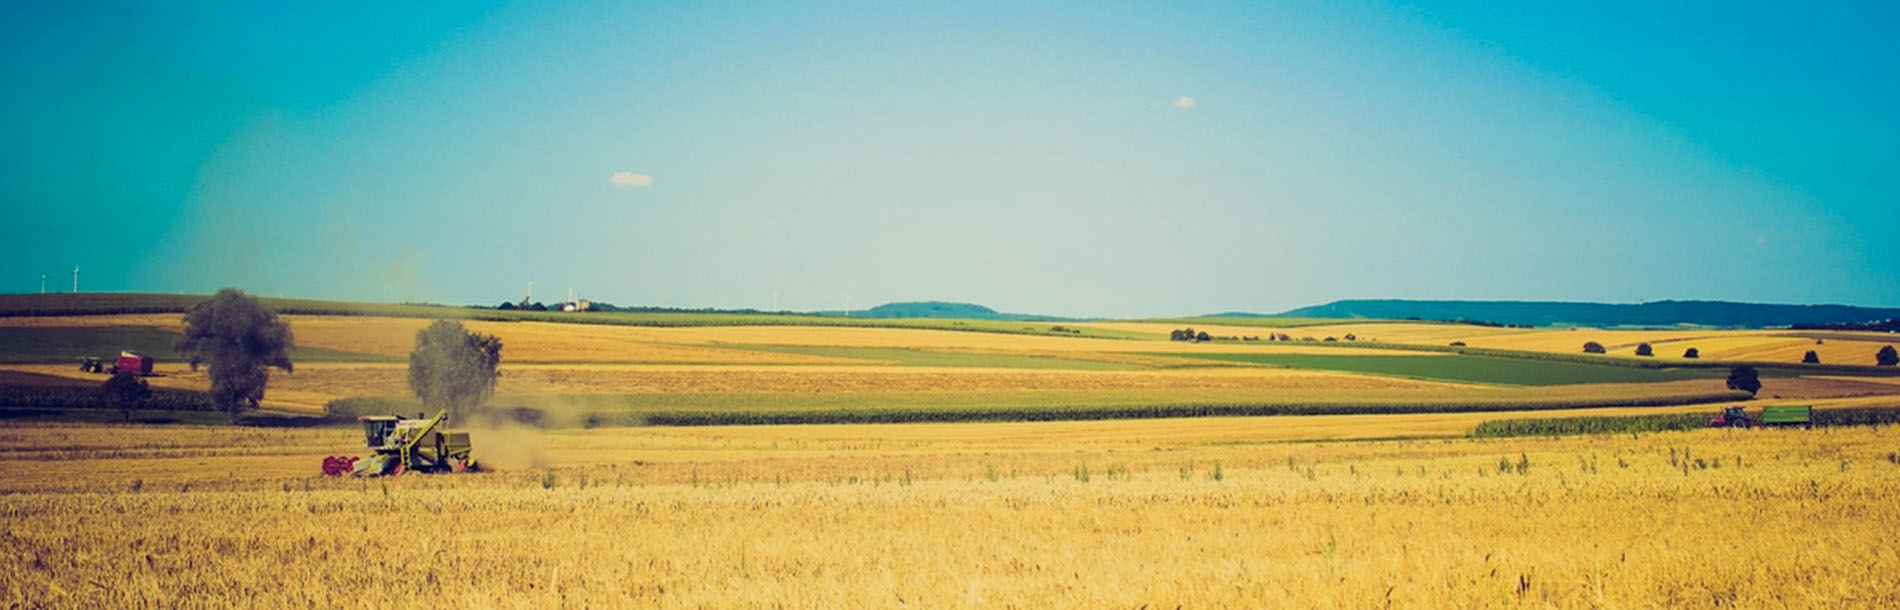
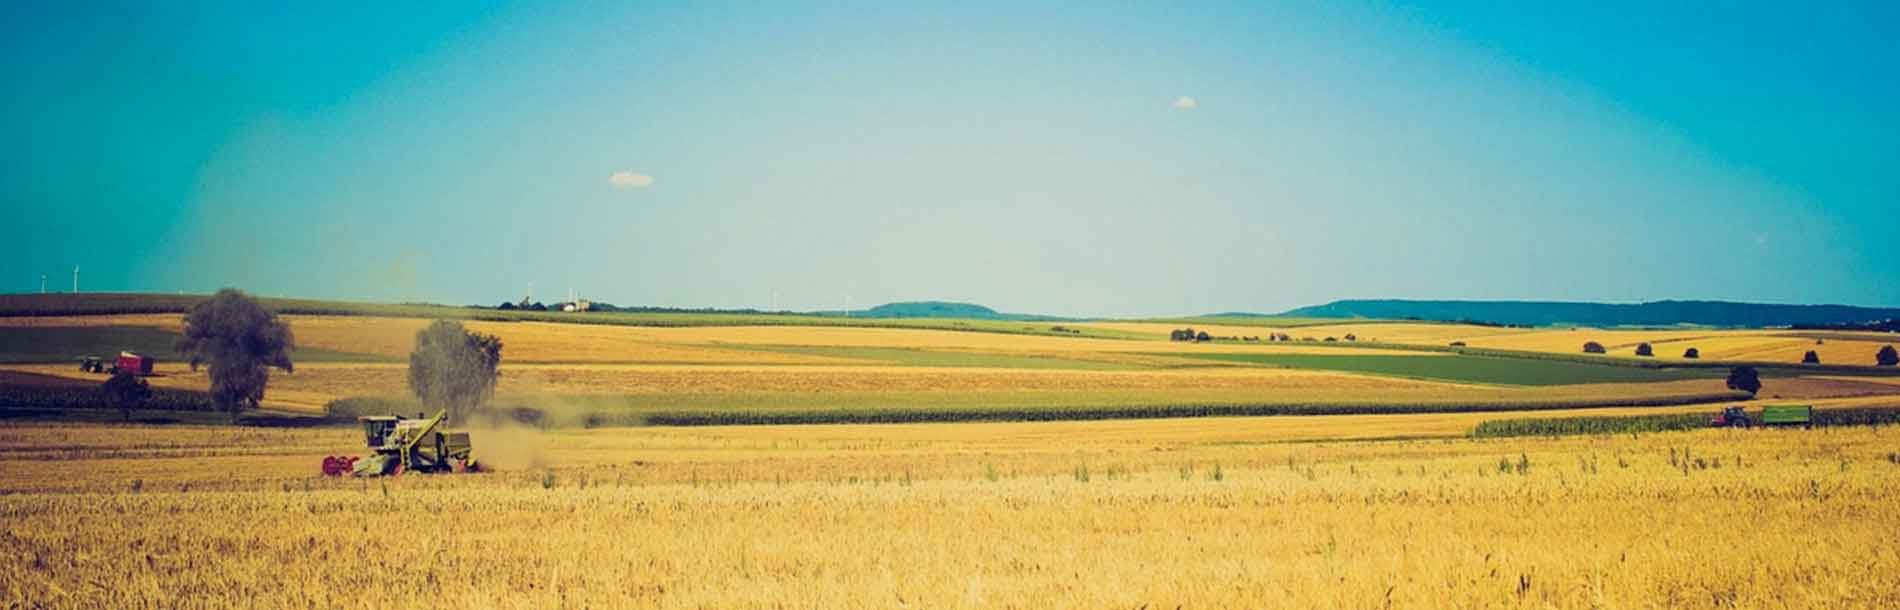
make image smaller

Changed region(s): [[0.9937, 0.5295, 1.0, 0.5918]]

diff --git a/index.html b/index.html
@@ -97,7 +97,7 @@
         <div class="clearfix"></div>
         <div class="col-sm-6 col-md-3">
           <div class="event_box ">
-            <img src="images/product/01-水稻苗前封闭-封草先锋.png" alt="封草先锋" class="img-responsive" />
+            <img src="images/product/01-水稻苗前封闭-封草先锋.jpg" alt="封草先锋" class="img-responsive" />
             <h2 style="text-align:center;font: 10px">封草先锋</h2>
             <ul>
               <li>适用范围: 水稻苗前封闭</li>
@@ -107,7 +107,7 @@
         </div>
         <div class="col-sm-6 col-md-3">
           <div class="event_box ">
-            <img src="images/product/02-水稻苗前封闭-封天下.png" alt="封天下" class="img-responsive" />
+            <img src="images/product/02-水稻苗前封闭-封天下.jpg" alt="封天下" class="img-responsive" />
             <h2 style="text-align:center;font: 10px">封天下</h2>
             <ul>
               <li>适用范围: 水稻苗前封闭</li>
@@ -117,7 +117,7 @@
         </div>
         <div class="col-sm-6 col-md-3">
           <div class="event_box ">
-            <img src="images/product/03-水稻苗后封闭-封除.png" alt="封除" class="img-responsive" />
+            <img src="images/product/03-水稻苗后封闭-封除.jpg" alt="封除" class="img-responsive" />
             <h2 style="text-align:center;font: 10px">封除</h2>
             <ul>
               <li>适用范围: 水稻苗后封闭</li>
@@ -127,7 +127,7 @@
         </div>
         <div class="col-sm-6 col-md-3">
           <div class="event_box ">
-            <img src="images/product/04-返青肥-科田稻.png" alt="科田稻" class="img-responsive" />
+            <img src="images/product/04-返青肥-科田稻.jpg" alt="科田稻" class="img-responsive" />
             <h2 style="text-align:center;font: 10px">科田稻</h2>
             <ul>
               <li>适用范围: 返青肥</li>
@@ -137,7 +137,7 @@
         </div>
         <div class="col-sm-6 col-md-3">
           <div class="event_box ">
-            <img src="images/product/05-苗床-苗速康.png" alt="苗速康" class="img-responsive" />
+            <img src="images/product/05-苗床-苗速康.jpg" alt="苗速康" class="img-responsive" />
             <h2 style="text-align:center;font: 10px">苗速康</h2>
             <ul>
               <li>适用范围: 苗床</li>
@@ -147,7 +147,7 @@
         </div>
         <div class="col-sm-6 col-md-3">
           <div class="event_box ">
-            <img src="images/product/06-杀虫剂-百虫绝杀.png" alt="百虫绝杀" class="img-responsive" />
+            <img src="images/product/06-杀虫剂-百虫绝杀.jpg" alt="百虫绝杀" class="img-responsive" />
             <h2 style="text-align:center;font: 10px">百虫绝杀</h2>
             <ul>
               <li>适用范围: 杀虫剂</li>
@@ -157,7 +157,7 @@
         </div>
         <div class="col-sm-6 col-md-3">
           <div class="event_box ">
-            <img src="images/product/07-杀虫剂-大拇指.png" alt="大拇指" class="img-responsive" />
+            <img src="images/product/07-杀虫剂-大拇指.jpg" alt="大拇指" class="img-responsive" />
             <h2 style="text-align:center;font: 10px">大拇指</h2>
             <ul>
               <li>适用范围: 杀虫剂</li>
@@ -167,7 +167,7 @@
         </div>
         <div class="col-sm-6 col-md-3">
           <div class="event_box ">
-            <img src="images/product/08-杀虫剂-毒霸.png" alt="毒霸" class="img-responsive" />
+            <img src="images/product/08-杀虫剂-毒霸.jpg" alt="毒霸" class="img-responsive" />
             <h2 style="text-align:center;font: 10px">毒霸</h2>
             <ul>
               <li>适用范围: 杀虫剂</li>
@@ -177,7 +177,7 @@
         </div>
         <div class="col-sm-6 col-md-3">
           <div class="event_box ">
-            <img src="images/product/09-杀虫剂-一甩光.png" alt="一甩光" class="img-responsive" />
+            <img src="images/product/09-杀虫剂-一甩光.jpg" alt="一甩光" class="img-responsive" />
             <h2 style="text-align:center;font: 10px">一甩光</h2>
             <ul>
               <li>适用范围: 一甩光</li>
@@ -187,7 +187,7 @@
         </div>
         <div class="col-sm-6 col-md-3">
           <div class="event_box ">
-            <img src="images/product/10-水稻苗后除草-除阔1+1.png" alt="除阔1+1" class="img-responsive" />
+            <img src="images/product/10-水稻苗后除草-除阔1+1.jpg" alt="除阔1+1" class="img-responsive" />
             <h2 style="text-align:center;font: 10px">除阔1+1</h2>
             <ul>
               <li>适用范围: 水稻苗后除草</li>
@@ -197,7 +197,7 @@
         </div>
         <div class="col-sm-6 col-md-3">
           <div class="event_box ">
-            <img src="images/product/11-水稻苗后除草-杰净.png" alt="杰净" class="img-responsive" />
+            <img src="images/product/11-水稻苗后除草-杰净.jpg" alt="杰净" class="img-responsive" />
             <h2 style="text-align:center;font: 10px">杰净</h2>
             <ul>
               <li>适用范围: 水稻苗后除草</li>
@@ -207,7 +207,7 @@
         </div>
         <div class="col-sm-6 col-md-3">
           <div class="event_box ">
-            <img src="images/product/12-水稻苗后除草-阔灭.png" alt="阔灭" class="img-responsive" />
+            <img src="images/product/12-水稻苗后除草-阔灭.jpg" alt="阔灭" class="img-responsive" />
             <h2 style="text-align:center;font: 10px">阔灭</h2>
             <ul>
               <li>适用范围: 水稻苗后除草</li>
@@ -217,7 +217,7 @@
         </div>
         <div class="col-sm-6 col-md-3">
           <div class="event_box ">
-            <img src="images/product/13-水稻苗后封闭-福稻.png" alt="福稻" class="img-responsive" />
+            <img src="images/product/13-水稻苗后封闭-福稻.jpg" alt="福稻" class="img-responsive" />
             <h2 style="text-align:center;font: 10px">福稻</h2>
             <ul>
               <li>适用范围: 水稻苗后封闭</li>
@@ -227,7 +227,7 @@
         </div>
         <div class="col-sm-6 col-md-3">
           <div class="event_box ">
-            <img src="images/product/14-水稻苗后封闭-粒量.png" alt="粒量" class="img-responsive" />
+            <img src="images/product/14-水稻苗后封闭-粒量.jpg" alt="粒量" class="img-responsive" />
             <h2 style="text-align:center;font: 10px">粒量</h2>
             <ul>
               <li>适用范围: 水稻苗后封闭</li>
@@ -237,7 +237,7 @@
         </div>
         <div class="col-sm-6 col-md-3">
           <div class="event_box ">
-            <img src="images/product/15-水稻苗前封闭-稻爽.png" alt="稻爽" class="img-responsive" />
+            <img src="images/product/15-水稻苗前封闭-稻爽.jpg" alt="稻爽" class="img-responsive" />
             <h2 style="text-align:center;font: 10px">稻爽</h2>
             <ul>
               <li>适用范围: 水稻苗前封闭</li>
@@ -247,7 +247,7 @@
         </div>
         <div class="col-sm-6 col-md-3">
           <div class="event_box ">
-            <img src="images/product/16-水稻苗前封闭-稻悦.png" alt="稻悦" class="img-responsive" />
+            <img src="images/product/16-水稻苗前封闭-稻悦.jpg" alt="稻悦" class="img-responsive" />
             <h2 style="text-align:center;font: 10px">稻悦</h2>
             <ul>
               <li>适用范围: 水稻苗前封闭</li>
@@ -257,7 +257,7 @@
         </div>
         <div class="col-sm-6 col-md-3">
           <div class="event_box ">
-            <img src="images/product/17-水稻庙前封闭-圣稻.png" alt="圣稻" class="img-responsive" />
+            <img src="images/product/17-水稻庙前封闭-圣稻.jpg" alt="圣稻" class="img-responsive" />
             <h2 style="text-align:center;font: 10px">圣稻</h2>
             <ul>
               <li>适用范围: 水稻庙前封闭</li>
@@ -267,7 +267,7 @@
         </div>
         <div class="col-sm-6 col-md-3">
           <div class="event_box ">
-            <img src="images/product/18-玉米苗后除草-苞收.png" alt="苞收" class="img-responsive" />
+            <img src="images/product/18-玉米苗后除草-苞收.jpg" alt="苞收" class="img-responsive" />
             <h2 style="text-align:center;font: 10px">苞收</h2>
             <ul>
               <li>适用范围: 玉米苗后除草</li>
@@ -277,7 +277,7 @@
         </div>
         <div class="col-sm-6 col-md-3">
           <div class="event_box ">
-            <img src="images/product/19-玉米苗后除草-金玉满堂.png" alt="金玉满堂" class="img-responsive" />
+            <img src="images/product/19-玉米苗后除草-金玉满堂.jpg" alt="金玉满堂" class="img-responsive" />
             <h2 style="text-align:center;font: 10px">金玉满堂</h2>
             <ul>
               <li>适用范围: 玉米苗后除草</li>
